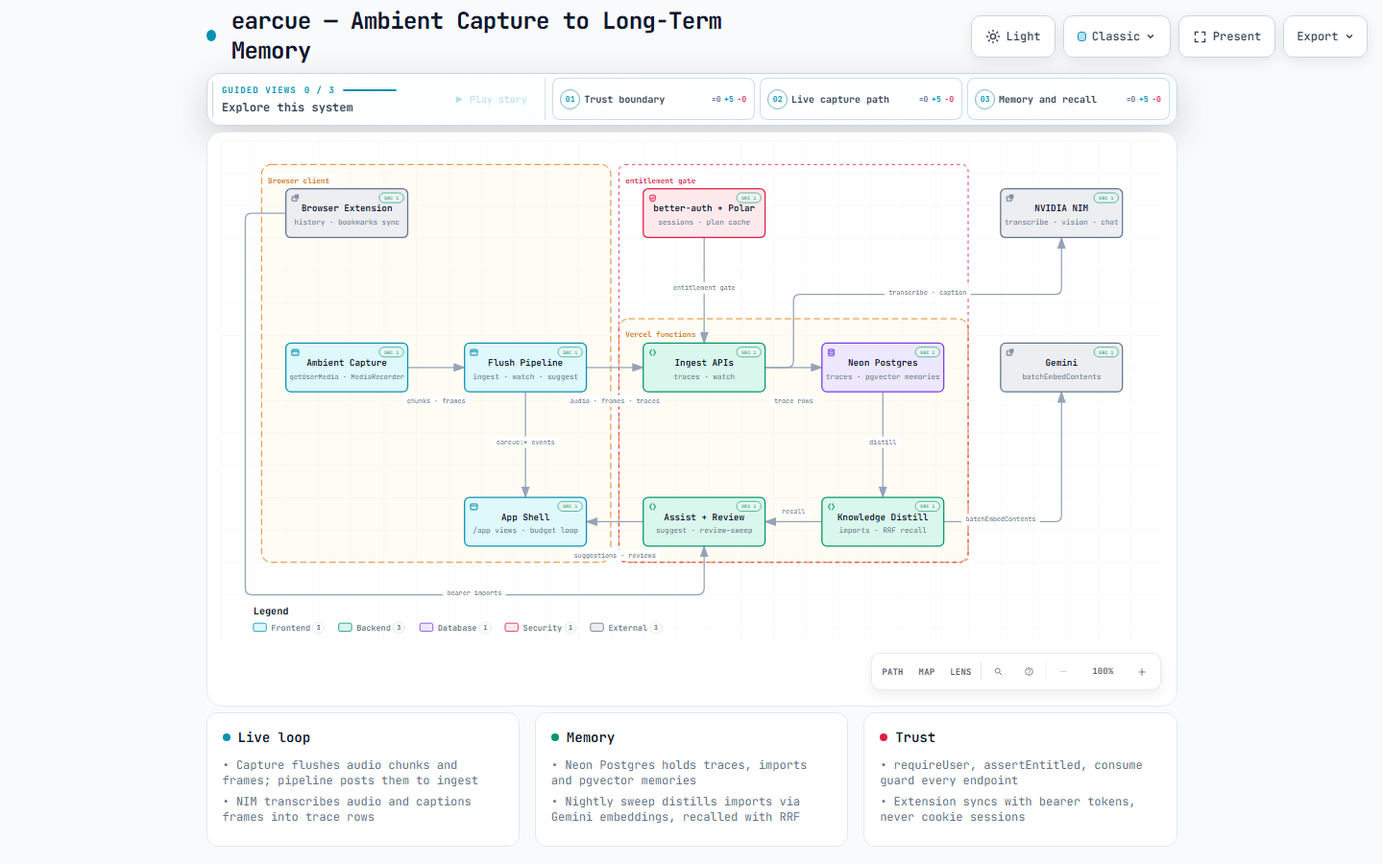
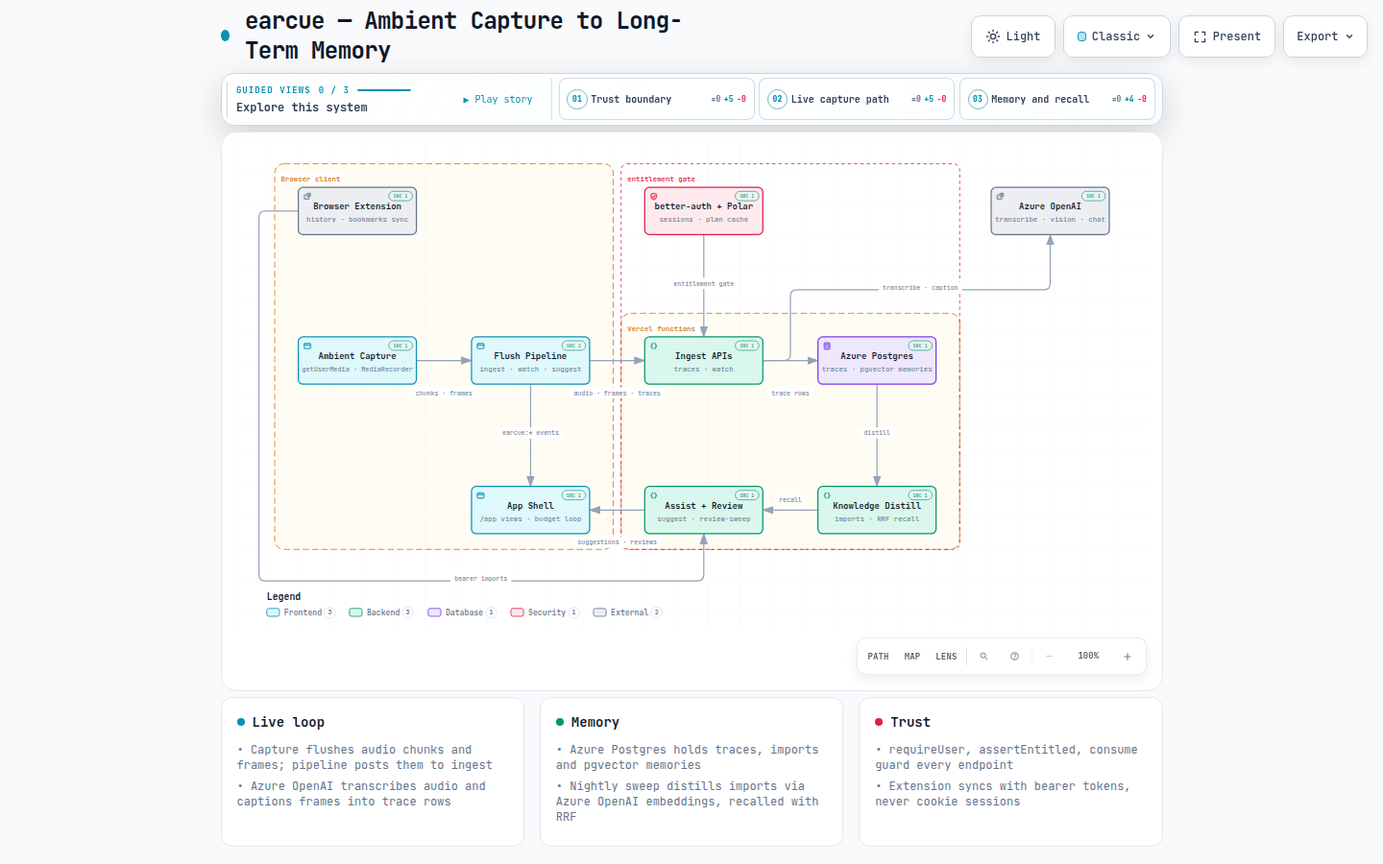
docs: name Azure OpenAI as the inference component in the diagram
The architecture diagram still drew NVIDIA NIM as a live external
component and cited src/lib/server/nim.ts, a file the Azure migration
deleted -- so its source-evidence block claimed a verified link to a
path that 404s. Renames the component to azure-openai/Azure OpenAI
pointing at src/lib/server/llm.ts, repoints the ingest edge and the
live-capture guided view, updates the Live loop card, and re-pins
meta.repository.revision off the pre-Azure commit.

Regenerated through archify rather than hand-patched: the delivered
HTML embeds geometry, guided-view chapters, and the evidence block in
one 817 KB artifact. Showcase delivery passed 9/9 artifact checks with
zero composition errors and warnings, evidence verified across 10
references, and visual-check passed.

diff --git a/docs/architecture/earcue-architecture.html b/docs/architecture/earcue-architecture.html
@@ -5085,8 +5085,8 @@ OTHER DEALINGS IN THE FONT SOFTWARE.
       </div>
     </div>
 
-    <script id="archify-guided-views-data" type="application/json">[{"focus":["assist","auth","extension","ingest","knowledge"],"id":"trust-boundary","label":"Trust boundary","note":"Isolate the entitlement gate and the extension bearer protocol."},{"focus":["capture","ingest","nim","pipeline","postgres"],"id":"live-capture","label":"Live capture path","note":"Follow the live path from mic and screen capture to transcript rows."},{"focus":["assist","knowledge","postgres","shell"],"id":"memory-recall","label":"Memory and recall","note":"See how imports become memories and serve recall in the app."}]</script>
-    <script id="archify-source-evidence-data" type="application/json">{"schemaVersion":1,"verified":true,"repository":{"url":"https://github.com/ccakmak60/earcue","revision":"12c58b1443d0ed903f9940e8c413785a66b84d85","shortRevision":"12c58b1","label":"ccakmak60/earcue","href":"https://github.com/ccakmak60/earcue/tree/12c58b1443d0ed903f9940e8c413785a66b84d85"},"referenceCount":10,"nodes":{"extension":[{"path":"extension/background.js","href":"https://github.com/ccakmak60/earcue/blob/12c58b1443d0ed903f9940e8c413785a66b84d85/extension/background.js"}],"auth":[{"path":"src/lib/server/auth.ts","href":"https://github.com/ccakmak60/earcue/blob/12c58b1443d0ed903f9940e8c413785a66b84d85/src/lib/server/auth.ts"}],"nim":[{"path":"src/lib/server/nim.ts","href":"https://github.com/ccakmak60/earcue/blob/12c58b1443d0ed903f9940e8c413785a66b84d85/src/lib/server/nim.ts"}],"capture":[{"path":"src/lib/client/capture.ts","href":"https://github.com/ccakmak60/earcue/blob/12c58b1443d0ed903f9940e8c413785a66b84d85/src/lib/client/capture.ts"}],"pipeline":[{"path":"src/lib/client/pipeline.ts","href":"https://github.com/ccakmak60/earcue/blob/12c58b1443d0ed903f9940e8c413785a66b84d85/src/lib/client/pipeline.ts"}],"ingest":[{"path":"src/app/api/traces/route.ts","href":"https://github.com/ccakmak60/earcue/blob/12c58b1443d0ed903f9940e8c413785a66b84d85/src/app/api/traces/route.ts"}],"postgres":[{"path":"db/migrations/008_knowledge.sql","href":"https://github.com/ccakmak60/earcue/blob/12c58b1443d0ed903f9940e8c413785a66b84d85/db/migrations/008_knowledge.sql"}],"shell":[{"path":"src/components/app/app-shell.tsx","href":"https://github.com/ccakmak60/earcue/blob/12c58b1443d0ed903f9940e8c413785a66b84d85/src/components/app/app-shell.tsx"}],"assist":[{"path":"src/lib/server/review.ts","href":"https://github.com/ccakmak60/earcue/blob/12c58b1443d0ed903f9940e8c413785a66b84d85/src/lib/server/review.ts"}],"knowledge":[{"path":"src/lib/server/knowledge.ts","href":"https://github.com/ccakmak60/earcue/blob/12c58b1443d0ed903f9940e8c413785a66b84d85/src/lib/server/knowledge.ts"}]}}</script>
+    <script id="archify-guided-views-data" type="application/json">[{"focus":["assist","auth","extension","ingest","knowledge"],"id":"trust-boundary","label":"Trust boundary","note":"Isolate the entitlement gate and the extension bearer protocol."},{"focus":["azure-openai","capture","ingest","pipeline","postgres"],"id":"live-capture","label":"Live capture path","note":"Follow the live path from mic and screen capture to transcript rows."},{"focus":["assist","knowledge","postgres","shell"],"id":"memory-recall","label":"Memory and recall","note":"See how imports become memories and serve recall in the app."}]</script>
+    <script id="archify-source-evidence-data" type="application/json">{"schemaVersion":1,"verified":true,"repository":{"url":"https://github.com/ccakmak60/earcue","revision":"7f12e9437e505e85a247714c7d440de6895e0c9d","shortRevision":"7f12e94","label":"ccakmak60/earcue","href":"https://github.com/ccakmak60/earcue/tree/7f12e9437e505e85a247714c7d440de6895e0c9d"},"referenceCount":10,"nodes":{"extension":[{"path":"extension/background.js","href":"https://github.com/ccakmak60/earcue/blob/7f12e9437e505e85a247714c7d440de6895e0c9d/extension/background.js"}],"auth":[{"path":"src/lib/server/auth.ts","href":"https://github.com/ccakmak60/earcue/blob/7f12e9437e505e85a247714c7d440de6895e0c9d/src/lib/server/auth.ts"}],"azure-openai":[{"path":"src/lib/server/llm.ts","href":"https://github.com/ccakmak60/earcue/blob/7f12e9437e505e85a247714c7d440de6895e0c9d/src/lib/server/llm.ts"}],"capture":[{"path":"src/lib/client/capture.ts","href":"https://github.com/ccakmak60/earcue/blob/7f12e9437e505e85a247714c7d440de6895e0c9d/src/lib/client/capture.ts"}],"pipeline":[{"path":"src/lib/client/pipeline.ts","href":"https://github.com/ccakmak60/earcue/blob/7f12e9437e505e85a247714c7d440de6895e0c9d/src/lib/client/pipeline.ts"}],"ingest":[{"path":"src/app/api/traces/route.ts","href":"https://github.com/ccakmak60/earcue/blob/7f12e9437e505e85a247714c7d440de6895e0c9d/src/app/api/traces/route.ts"}],"postgres":[{"path":"db/migrations/008_knowledge.sql","href":"https://github.com/ccakmak60/earcue/blob/7f12e9437e505e85a247714c7d440de6895e0c9d/db/migrations/008_knowledge.sql"}],"shell":[{"path":"src/components/app/app-shell.tsx","href":"https://github.com/ccakmak60/earcue/blob/7f12e9437e505e85a247714c7d440de6895e0c9d/src/components/app/app-shell.tsx"}],"assist":[{"path":"src/lib/server/review.ts","href":"https://github.com/ccakmak60/earcue/blob/7f12e9437e505e85a247714c7d440de6895e0c9d/src/lib/server/review.ts"}],"knowledge":[{"path":"src/lib/server/knowledge.ts","href":"https://github.com/ccakmak60/earcue/blob/7f12e9437e505e85a247714c7d440de6895e0c9d/src/lib/server/knowledge.ts"}]}}</script>
     <script id="archify-i18n-data" type="application/json">{"locale":"en","messages":{"viewer.kind.frontend":"Frontend","viewer.kind.backend":"Backend","viewer.kind.database":"Database","viewer.kind.cloud":"Cloud","viewer.kind.security":"Security","viewer.kind.messagebus":"Message bus","viewer.kind.external":"External","viewer.kind.neutral":"Neutral","viewer.kind.node":"Node","viewer.kind.start":"Start","viewer.kind.active":"Active","viewer.kind.waiting":"Waiting","viewer.kind.decision":"Decision","viewer.kind.success":"Success","viewer.kind.failure":"Failure","viewer.toolbar.actions":"Diagram actions","viewer.theme.toggle.title":"Toggle theme (T)","viewer.theme.toggle":"Toggle color theme","viewer.theme.dark":"Dark","viewer.theme.light":"Light","viewer.preset.choose.title":"Choose visual style (S cycles)","viewer.preset.choose":"Choose visual style","viewer.preset.style":"Style","viewer.preset.menu":"Visual style","viewer.preset.identity":"Visual identity","viewer.preset.cycles":"S cycles","viewer.preset.classic":"Classic","viewer.preset.classic.short":"Classic","viewer.preset.classic.hint":"Stable technical default","viewer.preset.flow":"Signal Flow","viewer.preset.flow.short":"Flow","viewer.preset.flow.hint":"Motion-forward presentation","viewer.preset.blueprint":"Blueprint","viewer.preset.blueprint.hint":"Engineering review","viewer.preset.editorial":"Editorial","viewer.preset.editorial.hint":"Publication and launch notes","viewer.preset.badge.signalFlow":"SIGNAL FLOW","viewer.preset.badge.blueprint":"BLUEPRINT / REV 01","viewer.preset.badge.editorial":"EDITORIAL / FIELD NOTE","viewer.preset.badge.editorialPlate":"ARCHIFY / PLATE 04","viewer.preset.current":"Visual style: {style}. Choose visual style","viewer.motion.live":"Live","viewer.motion.still":"Still","viewer.motion.pause":"Pause motion","viewer.motion.resume":"Resume motion","viewer.motion.reduced":"Motion paused by reduced-motion preference","viewer.motion.hidden":"Motion paused while this page is hidden","viewer.motion.yielding":"Pause motion; currently yielding to {owner}","viewer.motion.yielding.title":"Live preview enabled · yielding to {owner}","viewer.owner.story":"the guided story","viewer.owner.chapter":"the active chapter","viewer.owner.chapterPreview":"the chapter delta preview","viewer.owner.handoff":"the chapter handoff","viewer.owner.route":"Route Probe","viewer.owner.lens":"Semantic Lens","viewer.owner.relationship":"Relationship Preview","viewer.owner.intent":"Intent Trace","viewer.owner.focus":"semantic focus","viewer.owner.legend":"legend preview","viewer.owner.reader":"reader interaction","viewer.present.enter":"Enter presentation stage","viewer.present.enter.title":"Presentation stage (F)","viewer.present.exit":"Exit presentation stage","viewer.present.exit.title":"Exit presentation stage (F or Escape)","viewer.present.present":"Present","viewer.present.exit.label":"Exit","viewer.export.button":"Export","viewer.export.button.title":"Export diagram (E)","viewer.export.diagram":"Export diagram","viewer.export.menu":"Export","viewer.export.subtitle":"Portable, clean outputs","viewer.export.share":"Share","viewer.export.shareCard":"Share Card","viewer.export.routeShareCard":"Route Share Card","viewer.export.reachShareCard":"Reach Share Card","viewer.export.copyShareCard":"Copy Share Card","viewer.export.copyDiagram":"Copy diagram","viewer.export.clipboardPng":"PNG to clipboard","viewer.export.raster":"Raster images","viewer.export.image":"Image","viewer.export.lossless":"Lossless image","viewer.export.compact":"Compact image","viewer.export.modern":"Modern image","viewer.export.vectorMotion":"Vector and motion","viewer.export.vectorMotion.heading":"Vector \u0026 motion","viewer.export.editable":"Editable vector","viewer.export.motion6s":"6s motion","viewer.export.unsupported":"Not supported by this browser","viewer.export.clipboardUnsupported":"Clipboard image write not supported by this browser","viewer.export.clipboardUnsupported.period":"Clipboard image write not supported by this browser.","viewer.export.clipboardUnsupported.short":"Clipboard image write not supported in this browser.","viewer.export.motionUnavailable":"Motion capture unavailable in this browser","viewer.export.webmUnavailable":"WebM unavailable in this browser","viewer.export.failed":"Export failed: {message}","viewer.export.unknownVariant":"Unknown Share Card variant: {variant}","viewer.export.routeRequired":"Trace a route before exporting a Route Share Card","viewer.export.reachRequired":"Trace authored reach before exporting a Reach Share Card","viewer.export.unknown":"unknown","viewer.export.routeFailed":"Route Share Card export failed: {message}","viewer.export.reachFailed":"Reach Share Card export failed: {message}","viewer.export.copyFailed":"Copy failed: {message}","viewer.export.copiedPng":"Copied PNG to clipboard","viewer.export.copiedShare":"Copied Share Card","viewer.export.downloadedShare":"Downloaded Share Card","viewer.export.downloadedRoute":"Downloaded Route Share Card","viewer.export.downloadedReach":"Downloaded Reach Share Card","viewer.export.downloadedWebm":"Downloaded WebM","viewer.export.recording":"Recording 6 seconds of motion…","viewer.export.card.routeSummary.one":"Route: {source} → {target} · {count} directed hop","viewer.export.card.routeSummary.other":"Route: {source} → {target} · {count} directed hops","viewer.export.card.reachSummary":"Authored {direction} from {origin} · {nodes} · {links} · max {hops}","viewer.export.card.node.one":"{count} node","viewer.export.card.node.other":"{count} nodes","viewer.export.card.link.one":"{count} link","viewer.export.card.link.other":"{count} links","viewer.export.card.hop.one":"{count} hop","viewer.export.card.hop.other":"{count} hops","viewer.export.card.routeBadge":"ARCHIFY · ROUTE · {hops}","viewer.export.card.reachBadge":"ARCHIFY · {direction} REACH","viewer.export.card.defaultBadge":"ARCHIFY · {preset} · {theme}","viewer.export.direction.upstream":"Upstream","viewer.export.direction.downstream":"Downstream","viewer.export.error.canvasUnavailable":"Canvas unavailable for {label}","viewer.export.error.contextUnavailable":"2D canvas context unavailable for {label}","viewer.export.error.toBlobUnavailable":"canvas.toBlob unavailable for {label}","viewer.export.error.toBlobNull":"canvas.toBlob returned no data for {label}","viewer.export.error.variantsCombined":"Share Card variants cannot be combined","viewer.export.error.viewerState":"Share Card export could not remove temporary viewer state","viewer.export.error.routeState":"Route Card export could not preserve the resolved route safely","viewer.export.error.reachState":"Reach Card export could not preserve authored reach safely","viewer.export.error.webmRequirements":"WebM motion export requires a trace animation and browser MediaRecorder support","viewer.export.error.mediaRecorder":"MediaRecorder failed","viewer.export.error.emptyWebm":"MediaRecorder produced an empty WebM","viewer.export.error.webmBackground":"SVG background could not be loaded for WebM export","viewer.guided.region":"Guided diagram views","viewer.guided.previous":"Previous guided view","viewer.guided.previous.title":"Previous guided view ([)","viewer.guided.next":"Next guided view","viewer.guided.next.title":"Next guided view (])","viewer.guided.views":"Guided views","viewer.guided.explore":"Explore this system","viewer.guided.intro":"Step through curated paths without changing the source diagram.","viewer.guided.trail":"Story trail","viewer.guided.beat":"Beat","viewer.guided.nextBeat":"Next","viewer.guided.play":"Play guided story","viewer.guided.play.title":"Play guided story (P)","viewer.guided.pause":"Pause guided story","viewer.guided.pause.title":"Pause guided story (P)","viewer.guided.replay":"Replay guided story","viewer.guided.replay.title":"Replay guided story (P)","viewer.guided.playStory":"Play story","viewer.guided.pauseStory":"Pause","viewer.guided.replayStory":"Replay story","viewer.guided.motionUnavailable":"Story playback unavailable while motion is Still","viewer.guided.enableMotion":"Switch motion to Live to play the guided story","viewer.guided.selectBeatLink":"Select a Story Beat to copy its exact link","viewer.guided.copyMoment":"Copy moment","viewer.guided.momentCopied":"Moment link copied","viewer.guided.momentCopyFailed":"Could not copy story moment link","viewer.guided.copied":"Copied","viewer.guided.copyFailed":"Copy failed","viewer.guided.showAll":"Show all","viewer.guided.showAll.aria":"Show entire diagram","viewer.guided.chapters":"Story chapters","viewer.guided.storyTrail":"Story trail for {label}: {count} beats","viewer.guided.chapter.open":"Open chapter {index} of {total}: {label}, {count} stops","viewer.guided.chapter.current":"Current chapter {index} of {total}: {label}, {count} stops","viewer.guided.chapter.selectedNodes":"{count} selected nodes","viewer.guided.chapter.stops":"{count} stops","viewer.guided.chapter.stop.one":"{count} stop","viewer.guided.chapter.stop.other":"{count} stops","viewer.guided.chapter.current.title":"{label} — current chapter, {count} stops","viewer.guided.chapter.delta.expanded":"{stay} stay, {enter} enter, {leave} leave","viewer.guided.chapter.delta.aria":"Open chapter {index} of {total}: {label}. Chapter focus delta: {delta}","viewer.guided.chapter.delta.title":"{label} — {delta} chapter focus","viewer.guided.handoff":"{from} → {to} · via {label}","viewer.guided.share.chapter":"Chapter {index} / {total}","viewer.guided.share.initial":"Chapter 01 / 01","viewer.guided.share.default":"Guided chapter","viewer.guided.state.ready":"Ready","viewer.guided.state.playing":"Playing","viewer.guided.state.settled":"Settled","viewer.guided.state.paused":"Paused","viewer.guided.state.pinned":"Pinned","viewer.guided.state.still":"Still","viewer.guided.share.step":"Step {index} / {total} · {label}","viewer.guided.share.staticMoment":"{step} · Static moment","viewer.guided.share.complete":"{count} steps complete · {note}","viewer.guided.share.settled":"Path settled for reading.","viewer.guided.share.staticPath":"{count} steps · Static path","viewer.guided.share.ready":"{count} steps · Ready","viewer.guided.share.aria":"{state} chapter {index} of {total}: {label}. {beat}. {route}","viewer.guided.beat.start":"Beat {index} / {total} · {label} · starting point","viewer.guided.beat.forward":"Beat {index} / {total} · {from} → {to}","viewer.guided.beat.reverse":"Beat {index} / {total} · {from} → {to} · reverse authored link","viewer.guided.beat.multiple":"Beat {index} / {total} · {from} ⇄ {to} · {count} authored links","viewer.guided.beat.group":"Beat {index} / {total} · {from} · {to} · grouped · no direct link","viewer.guided.beat.aria.prefix":"Story beat {index} of {total}: {label}. ","viewer.guided.beat.aria.start":"Starting point.","viewer.guided.beat.aria.forward":"From {from} through one authored forward relationship.","viewer.guided.beat.aria.reverse":"From {from}; the authored relationship points from {to} to {from}.","viewer.guided.beat.aria.multiple":"From {from} through {count} authored relationships; shown without arbitrary motion.","viewer.guided.beat.aria.group":"Grouped from {from} with no direct authored relationship.","viewer.guided.caption.start":"Starting point","viewer.guided.caption.grouped":"Grouped transition · no direct authored link","viewer.guided.caption.more":" +{count} more","viewer.guided.caption.reverse":"Reverse authored relationship","viewer.guided.caption.relationships":"{count} authored relationships","viewer.guided.caption.relationship":"Authored relationship","viewer.guided.caption.direction":"authored direction: {from} → {to}","viewer.guided.caption.starting":"Authored starting point","viewer.guided.beatLink":"Copy link to current story moment: Beat {index} of {total}: {label}","viewer.guided.noStory":"This diagram has no authored guided story.","viewer.guide.eyebrow":"Diagram guide","viewer.guide.close":"Close diagram guide","viewer.guide.inspecting":"Inspecting compiled semantics","viewer.guide.actions":"Diagram exploration actions","viewer.guide.find":"Find any node","viewer.guide.find.hint":"Search labels, responsibilities, kinds, and stable IDs.","viewer.guide.route":"Trace a route","viewer.guide.route.aria":"Trace a directed route","viewer.guide.route.hint":"Ask how two semantic nodes connect in authored direction.","viewer.guide.map":"See the whole system","viewer.guide.map.hint":"Open Semantic Radar with a live viewport and stable nodes.","viewer.guide.lens":"Compare semantic kinds","viewer.guide.lens.hint":"Count roles, reveal their traffic, and compare direct authored links.","viewer.guide.story":"Play the guided story","viewer.guide.story.hint":"Walk the authored chapters and real relationships.","viewer.guide.present":"Enter Presentation Stage","viewer.guide.present.hint":"Give the live diagram the viewport without changing export.","viewer.guide.shortcuts":"Additional keyboard shortcuts","viewer.guide.shortcut.export":"Export","viewer.guide.shortcut.theme":"Theme","viewer.guide.shortcut.style":"Style","viewer.guide.shortcut.reset":"Reset","viewer.guide.shortcut.zoomIn":"Zoom in","viewer.guide.shortcut.zoomOut":"Zoom out","viewer.guide.shortcut.close":"Close","viewer.guide.facts":"{nodes} · {relationships} · {views}","viewer.guide.fact.node.one":"{count} semantic node","viewer.guide.fact.node.other":"{count} semantic nodes","viewer.guide.fact.relationship.one":"{count} relationship","viewer.guide.fact.relationship.other":"{count} relationships","viewer.guide.fact.view.one":"{count} guided view","viewer.guide.fact.view.other":"{count} guided views","viewer.guide.story.available.one":"Walk {count} authored chapter and its real relationships.","viewer.guide.story.available.other":"Walk {count} authored chapters and their real relationships.","viewer.guide.story.unavailable":"No authored guided story in this diagram.","viewer.guide.open":"Open diagram guide","viewer.guide.noStory":"This diagram has no authored guided story.","viewer.finder.title":"Find a node","viewer.finder.close":"Close node finder","viewer.finder.placeholder":"Search labels or IDs","viewer.finder.search":"Search diagram nodes","viewer.finder.results":"Diagram nodes","viewer.finder.empty":"No matching nodes","viewer.finder.result.focus":"Focus {label}","viewer.finder.result.routeStart":"Choose {label} as route start","viewer.finder.result.routeTarget":"Choose {label} as route destination, {links}","viewer.finder.status.empty":"No matching nodes","viewer.finder.status.count.one":"{count} matching node","viewer.finder.status.count.other":"{count} matching nodes","viewer.finder.noun.nodes":"nodes","viewer.finder.link.one":"{count} link","viewer.finder.link.other":"{count} links","viewer.finder.result.focus.one":"Focus {label}, {count} related connection","viewer.finder.result.focus.other":"Focus {label}, {count} related connections","viewer.finder.status.filtered":"{visible} of {available} {noun}","viewer.finder.status.all":"{available} {noun}","viewer.passport.eyebrow":"Semantic passport","viewer.passport.metadata":"Node metadata","viewer.passport.evidence":"Verified source evidence","viewer.passport.verified":"Verified source","viewer.passport.verificationScope":"Verified against local Git at the pinned revision. Remote access has not been checked.","viewer.passport.reach":"Authored reach","viewer.passport.reach.trace":"Trace authored reachability","viewer.passport.upstream":"Upstream","viewer.passport.downstream":"Downstream","viewer.passport.upstream.trace":"Trace upstream authored reachability","viewer.passport.downstream.trace":"Trace downstream authored reachability","viewer.passport.close":"Close semantic passport","viewer.passport.copy":"Copy link","viewer.passport.copy.focus":"Copy link to focused node","viewer.passport.relations":"Relations","viewer.passport.relations.show":"Show connected relationships","viewer.passport.relations.hide":"Hide connected relationships","viewer.passport.relations.list":"Connected relationships","viewer.passport.copyRelation":"Copy relation","viewer.passport.copyNode":"Copy node","viewer.passport.copyPinned":"Copy link to pinned relationship","viewer.passport.copySource":"Copy link to source node","viewer.passport.copy.focused.success":"Focused node link copied","viewer.passport.copy.pinned.success":"Pinned relationship link copied","viewer.passport.copy.focused.failed":"Could not copy focused node link","viewer.passport.copy.pinned.failed":"Could not copy pinned relationship link","viewer.passport.relationship.none":"No connected relationships","viewer.passport.relationship.count.one":"{count} relation","viewer.passport.relationship.count.other":"{count} relations","viewer.passport.relationship.show.one":"Show {count} connected relationship","viewer.passport.relationship.show.other":"Show {count} connected relationships","viewer.passport.relationship.summary":"{out} outgoing · {in} incoming{loops}","viewer.passport.relationship.loops":" · {count} loop","viewer.passport.relationship.explorer":"Direct relationship explorer","viewer.passport.relationship.help":"Use arrow keys to explore relationships. Press Enter or Space to pin details; Escape clears.","viewer.passport.relationship.loopsBack":"loops back","viewer.passport.relationship.connectsTo":"connects to","viewer.passport.relationship.connectsFrom":"connects from","viewer.passport.relationship.pinned":"Pinned relationship · {from} → {to} · {label}","viewer.passport.relationship.inspect":"Inspect relationship {index} of {total}: {from} to {to}, {label}. Press Enter for details.","viewer.passport.relationship.group.out":"Outgoing","viewer.passport.relationship.group.in":"Incoming","viewer.passport.relationship.group.loop":"Self loops","viewer.passport.relationship.row":"{group}: {relationship}, {neighbor}","viewer.passport.relationship.direction.out":"OUT →","viewer.passport.relationship.direction.in":"← IN","viewer.passport.relationship.direction.loop":"LOOP","viewer.passport.sourceCount.one":"{count} verified source reference","viewer.passport.sourceCount.other":"{count} verified source references","viewer.passport.sourceMarker":"SRC","viewer.passport.beacon.one":"{count} verified source; focus this node to inspect","viewer.passport.beacon.other":"{count} verified sources; focus this node to inspect","viewer.passport.repository.open":"Open verified repository revision {revision}","viewer.passport.source.open":"Open verified source {path} at revision {revision}","viewer.passport.source.openLink":"Open ↗","viewer.passport.reach.upstream.one":"Trace {count} upstream authored node","viewer.passport.reach.upstream.other":"Trace {count} upstream authored nodes","viewer.passport.reach.downstream.one":"Trace {count} downstream authored node","viewer.passport.reach.downstream.other":"Trace {count} downstream authored nodes","viewer.passport.reach.noUpstream":"No upstream authored nodes","viewer.passport.reach.noDownstream":"No downstream authored nodes","viewer.passport.reach.status":"{direction} · {nodes} nodes · {links} links · max {hops} hops","viewer.route.eyebrow":"Route probe","viewer.route.start":"Choose a start node","viewer.route.start.find":"Find start","viewer.route.start.find.aria":"Find a route start","viewer.route.copy":"Copy link","viewer.route.copy.aria":"Copy link to traced route","viewer.route.clear":"Clear","viewer.route.clear.aria":"Clear route probe","viewer.route.traced":"Traced route","viewer.route.pickTwo":"Pick two semantic nodes on the diagram","viewer.route.pickOne":"Pick a semantic node on the diagram","viewer.route.controls":"Route journey controls","viewer.route.previous":"Previous route position","viewer.route.play":"Play route journey","viewer.route.pause":"Pause route journey","viewer.route.replay":"Replay route journey","viewer.route.next":"Next route position","viewer.route.journey":"Journey","viewer.route.pause.label":"Pause","viewer.route.replay.label":"Replay","viewer.route.overview":"Overview","viewer.route.overview.aria":"Show complete route overview","viewer.route.instructions":"Choose the source, then the destination. Direction matters.","viewer.route.destination":"Choose a destination from {label}","viewer.route.destination.find":"Find target","viewer.route.destination.find.aria":"Find a reachable route destination","viewer.route.differentDestination":"Choose a different destination","viewer.route.distinct":"A route needs two distinct semantic nodes.","viewer.route.unreachable":"No directed route to {label}","viewer.route.unreachable.detail":"{target} is not reachable from {source}. Pick a highlighted destination.","viewer.route.start.instructions":"Select the source. The next step will reveal only directed destinations.","viewer.route.copy.success":"Traced route link copied","viewer.route.copy.failed":"Could not copy traced route link","viewer.route.position":"Route position {index} of {total}: {label}","viewer.route.step":"Step {index} of {total} · {phase} · {label}","viewer.route.motionRequired":"Automatic journey requires Live motion","viewer.route.trigger.clear":"Clear traced route","viewer.route.overview.status":"{nodes} · {hops} · shortest authored route","viewer.route.overview.node.one":"{count} node","viewer.route.overview.node.other":"{count} nodes","viewer.route.overview.hop.one":"{count} directed hop","viewer.route.overview.hop.other":"{count} directed hops","viewer.route.phase.playing":"Playing","viewer.route.phase.complete":"Complete","viewer.route.phase.inspecting":"Inspecting","viewer.route.destination.count.one":"{count} directed destination available. Pick a highlighted node.","viewer.route.destination.count.other":"{count} directed destinations available. Pick a highlighted node.","viewer.route.noOutgoing":"No outgoing route starts here. Clear and choose another source.","viewer.route.result.title":"{source} to {target}","viewer.route.finder.source.title":"Choose route start","viewer.route.finder.source.placeholder":"Search route sources","viewer.route.finder.source.empty":"No matching route sources","viewer.route.finder.source.results":"Nodes that can start a route","viewer.route.finder.source.noun":"route sources","viewer.route.finder.source.badge":"start","viewer.route.finder.target.title":"Destination from {label}","viewer.route.finder.target.placeholder":"Search reachable destinations","viewer.route.finder.target.empty":"No matching reachable destinations","viewer.route.finder.target.results":"Reachable route destinations","viewer.route.finder.target.noun":"reachable destinations","viewer.route.hop.one":"{count} hop","viewer.route.hop.other":"{count} hops","viewer.lens.eyebrow":"Semantic lens","viewer.lens.title":"Compare system roles","viewer.lens.close":"Close semantic lens","viewer.lens.instruction":"Choose up to two semantic kinds. One reveals its real traffic; two compare only direct authored relationships.","viewer.lens.kinds":"Semantic kinds","viewer.lens.choose":"Choose a kind to inspect its nodes and touching relationships.","viewer.lens.copy":"Copy link to semantic lens","viewer.lens.clear":"Clear semantic lens","viewer.lens.open":"Open semantic lens","viewer.lens.openActive":"Open active semantic lens","viewer.lens.legend":"Semantic legend","viewer.lens.legend.inspect.one":"Inspect {label}, {count} node","viewer.lens.legend.inspect.other":"Inspect {label}, {count} nodes","viewer.lens.kind.count.one":"{label}, {count} node","viewer.lens.kind.count.other":"{label}, {count} nodes","viewer.lens.compare.one":"{first} → {second}: {forward} · {second} → {first}: {reverse} · {count} direct relationship","viewer.lens.compare.other":"{first} → {second}: {forward} · {second} → {first}: {reverse} · {count} direct relationships","viewer.lens.single":"{nodes} · {relationships} · connected peers remain visible","viewer.lens.node.one":"{count} {label} node","viewer.lens.node.other":"{count} {label} nodes","viewer.lens.relationship.one":"{count} touching relationship","viewer.lens.relationship.other":"{count} touching relationships","viewer.radar.title":"Semantic radar","viewer.radar.building":"Building overview","viewer.radar.openFull":"Open full semantic radar","viewer.radar.open":"Open radar","viewer.radar.close":"Close semantic radar","viewer.radar.surface":"Diagram overview. Click a node to focus it, or use arrow keys to pan.","viewer.radar.click":"Click node","viewer.radar.drag":"Drag to pan","viewer.radar.space":"Semantic radar needs more MAP space.","viewer.radar.nodes":"Semantic diagram radar nodes","viewer.radar.focus":"Focus {label} from Semantic Radar","viewer.radar.status":"{count} nodes · {viewport}","viewer.radar.fullMap":"{count} nodes · full map","viewer.radar.compacted":"Radar compacted to avoid covering the Semantic Passport or MAP controls.","viewer.radar.cancelWaiting":"Cancel semantic radar waiting for more MAP space","viewer.radar.needsSpace":"Semantic radar needs more visible MAP space","viewer.radar.viewport.full":"full map","viewer.radar.viewport.width":"{percent}% width","viewer.radar.viewport.scale":"{percent}% viewport","viewer.nav.controls":"Diagram view controls","viewer.nav.route":"Trace a directed route","viewer.nav.route.title":"Trace route (R)","viewer.nav.route.short":"PATH","viewer.nav.radar":"Open semantic radar","viewer.nav.radar.title":"Semantic radar (M)","viewer.nav.radar.short":"MAP","viewer.nav.lens":"Open semantic lens","viewer.nav.lens.title":"Semantic lens (L)","viewer.nav.lens.short":"LENS","viewer.nav.find":"Find a node","viewer.nav.find.title":"Find a node (/)","viewer.nav.guide":"Open diagram guide","viewer.nav.guide.title":"Diagram guide (?)","viewer.nav.zoomOut":"Zoom out","viewer.nav.zoomOut.title":"Zoom out (-)","viewer.nav.reset":"Reset diagram view","viewer.nav.reset.title":"Reset view (0)","viewer.nav.read":"READ","viewer.nav.zoomIn":"Zoom in","viewer.nav.zoomIn.title":"Zoom in (+)","viewer.nav.camera":"{hint}. Reset diagram view","viewer.nav.camera.title":"{semantic}{hint} · reset view (0)","viewer.nav.camera.semantic":"Semantic camera active · ","viewer.nav.level.map":"MAP","viewer.nav.level.read":"READ","viewer.nav.level.full":"FULL","viewer.nav.level.auto":"AUTO","viewer.nav.detail.map":"Zoom in to reveal relationship labels and node context","viewer.nav.detail.read":"Zoom in again to reveal tags and annotations","viewer.nav.detail.full":"Full diagram detail","viewer.intent.summary":"{label}. {out} outgoing, {in} incoming{loops}. {total} connections. Press Enter for details.","viewer.intent.loops":", {count} self loop","viewer.common.copied":"Copied","viewer.common.copyFailed":"Copy failed","viewer.common.copyLink":"Copy link","viewer.common.clear":"Clear","viewer.common.close":"Close"}}</script>
     <div class="guided-views no-print" id="guided-views" hidden aria-label="Guided diagram views">
       <button id="guided-view-prev" type="button" aria-label="Previous guided view" title="Previous guided view ([)">&#8592;</button>
@@ -5169,7 +5169,7 @@ OTHER DEALINGS IN THE FONT SOFTWARE.
         <path data-edge-from="postgres" data-edge-to="knowledge" data-edge-label="distill" data-edge-key="3" data-edge-id="c-postgres-knowledge" data-composition-points="815,310;815,440" d="M 815 310 L 815 440" class="a-default" stroke-width="1.5" marker-end="url(#arrowhead)"/>
         <path data-edge-from="knowledge" data-edge-to="assist" data-edge-label="recall" data-edge-key="4" data-edge-id="c-knowledge-assist" data-composition-points="740,470;670,470" d="M 740 470 L 670 470" class="a-default" stroke-width="1.5" marker-end="url(#arrowhead)"/>
         <path data-edge-from="assist" data-edge-to="shell" data-edge-label="suggestions · reviews" data-edge-key="5" data-edge-id="c-assist-shell" data-composition-points="520,470;450,470" d="M 520 470 L 450 470" class="a-default" stroke-width="1.5" marker-end="url(#arrowhead)"/>
-        <path data-edge-from="ingest" data-edge-to="nim" data-edge-label="transcribe · caption" data-edge-key="6" data-edge-id="c-ingest-nim" data-composition-points="670,280;705,280;705,190;1035,190;1035,120" d="M 670 280 L 697 280 Q 705 280 705 272 L 705 198 Q 705 190 713 190 L 1027 190 Q 1035 190 1035 182 L 1035 120" class="a-default" stroke-width="1.5" marker-end="url(#arrowhead)"/>
+        <path data-edge-from="ingest" data-edge-to="azure-openai" data-edge-label="transcribe · caption" data-edge-key="6" data-edge-id="c-ingest-azure-openai" data-composition-points="670,280;705,280;705,190;1035,190;1035,120" d="M 670 280 L 697 280 Q 705 280 705 272 L 705 198 Q 705 190 713 190 L 1027 190 Q 1035 190 1035 182 L 1035 120" class="a-default" stroke-width="1.5" marker-end="url(#arrowhead)"/>
         <path data-edge-from="auth" data-edge-to="ingest" data-edge-label="entitlement gate" data-edge-key="7" data-edge-id="c-auth-ingest" data-composition-points="595,120;595,250" d="M 595 120 L 595 250" class="a-default" stroke-width="1.5" marker-end="url(#arrowhead)"/>
         <path data-edge-from="extension" data-edge-to="assist" data-edge-label="bearer imports" data-edge-key="8" data-edge-id="c-extension-assist" data-composition-points="80,90;30,90;30,560;595,560;595,500" d="M 80 90 L 38 90 Q 30 90 30 98 L 30 552 Q 30 560 38 560 L 587 560 Q 595 560 595 552 L 595 500" class="a-default" stroke-width="1.5" marker-end="url(#arrowhead)"/>
         <path data-edge-from="pipeline" data-edge-to="shell" data-edge-label="earcue:* events" data-edge-key="9" data-edge-id="c-pipeline-shell" data-composition-points="375,310;375,440" d="M 375 310 L 375 440" class="a-default" stroke-width="1.5" marker-end="url(#arrowhead)"/>
@@ -5200,15 +5200,15 @@ OTHER DEALINGS IN THE FONT SOFTWARE.
         <text data-detail="context" x="595" y="104" class="t-muted" font-size="9" text-anchor="middle">sessions · plan cache</text>
         </g>
 
-        <g id="node-nim" data-node-id="nim" data-node-label="NVIDIA NIM" tabindex="0" role="button" aria-label="Focus NVIDIA NIM, transcribe · vision · chat, Architecture component" aria-pressed="false" data-node-kind="external" data-node-sublabel="transcribe · vision · chat" data-node-context="Architecture component">
-          <title>NVIDIA NIM · transcribe · vision · chat · Architecture component</title>
+        <g id="node-azure-openai" data-node-id="azure-openai" data-node-label="Azure OpenAI" tabindex="0" role="button" aria-label="Focus Azure OpenAI, transcribe · vision · chat, Architecture component" aria-pressed="false" data-node-kind="external" data-node-sublabel="transcribe · vision · chat" data-node-context="Architecture component">
+          <title>Azure OpenAI · transcribe · vision · chat · Architecture component</title>
           <rect x="960" y="60" width="150" height="60" rx="6" class="c-mask"/>
           <rect x="960" y="60" width="150" height="60" rx="6" class="c-external" stroke-width="1.5"/>
           <g aria-hidden="true" data-semantic-sigil="external" class="semantic-sigil s-external" transform="translate(966 66) scale(0.6875)">
             <rect x="2.5" y="5" width="8.5" height="8" rx="1.5"/>
             <path d="M8 2.5h5.5V8M13.5 2.5 7.5 8.5"/>
           </g>
-          <text data-node-label="" data-detail-anchor="" x="1035" y="88" class="t-primary" font-size="11" font-weight="600" text-anchor="middle">NVIDIA NIM</text>
+          <text data-node-label="" data-detail-anchor="" x="1035" y="88" class="t-primary" font-size="11" font-weight="600" text-anchor="middle">Azure OpenAI</text>
         <text data-detail="context" x="1035" y="104" class="t-muted" font-size="9" text-anchor="middle">transcribe · vision · chat</text>
         </g>
 
@@ -5324,7 +5324,7 @@ OTHER DEALINGS IN THE FONT SOFTWARE.
           <rect x="429.6" y="504" width="110.8" height="14" rx="3" class="c-mask"/>
           <text x="485" y="514" class="t-muted" font-size="8" text-anchor="middle">suggestions · reviews</text>
         </g>
-        <g data-detail="context" data-edge-from="ingest" data-edge-to="nim" data-edge-label="transcribe · caption" data-edge-key="6" data-edge-id="c-ingest-nim">
+        <g data-detail="context" data-edge-from="ingest" data-edge-to="azure-openai" data-edge-label="transcribe · caption" data-edge-key="6" data-edge-id="c-ingest-azure-openai">
           <rect x="817" y="180" width="106" height="14" rx="3" class="c-mask"/>
           <text x="870" y="190" class="t-muted" font-size="8" text-anchor="middle">transcribe · caption</text>
         </g>
@@ -5574,7 +5574,7 @@ OTHER DEALINGS IN THE FONT SOFTWARE.
         </div>
         <ul>
           <li>&bull; Capture flushes audio chunks and frames; pipeline posts them to ingest</li>
-          <li>&bull; NIM transcribes audio and captions frames into trace rows</li>
+          <li>&bull; Azure OpenAI transcribes audio and captions frames into trace rows</li>
         </ul>
       </div>
 
